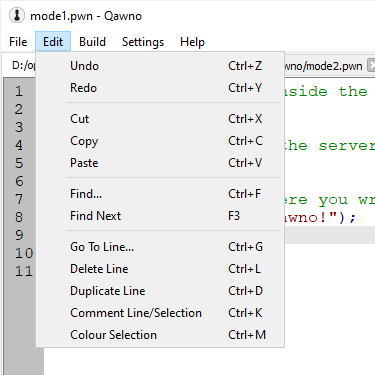
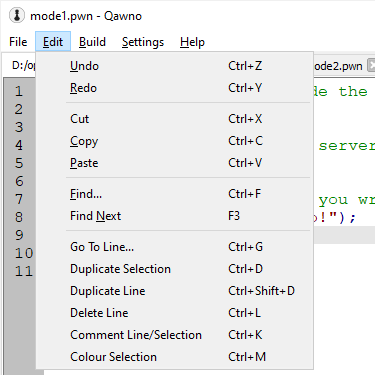
Add Ctrl+Shift+D for duplicating lines not selections.

diff --git a/src/MainWindow.cpp b/src/MainWindow.cpp
@@ -918,6 +918,12 @@ void MainWindow::on_actionDupline_triggered() {
   }
 }
 
+void MainWindow::on_actionDupsel_triggered() {
+  if (auto editor = getCurrentEditor()) {
+    editor->duplicateSelection(false);
+  }
+}
+
 void MainWindow::on_actionComment_triggered() {
   if (auto editor = getCurrentEditor()) {
     // I was trying to do this in a way with cursors etc.  In the end I just decided to do it with

diff --git a/src/EditorWidget.cpp b/src/EditorWidget.cpp
@@ -309,7 +309,7 @@ void EditorWidget::duplicateSelection(bool lines) {
     cursor.movePosition(QTextCursor::NextBlock, QTextCursor::KeepAnchor);
   }
   QString text = cursor.selectedText();
-  cursor.insertText(text);
+  cursor.setPosition(end);
   cursor.insertText(text);
   cursor.setPosition(start, QTextCursor::MoveAnchor);
   cursor.setPosition(end, QTextCursor::KeepAnchor);

diff --git a/src/MainWindow.h b/src/MainWindow.h
@@ -69,6 +69,7 @@ class MainWindow: public QMainWindow {
   void on_actionNextErr_triggered();
   void on_actionDelline_triggered();
   void on_actionDupline_triggered();
+  void on_actionDupsel_triggered();
   void on_actionComment_triggered();
   void on_actionColours_triggered();
 

diff --git a/README.md b/README.md
@@ -15,7 +15,7 @@ Qawno is a simple cross-platform Pawn editor with syntax highlighting, script co
 * **Pawn Compiler** - Compile your code and view the output directly in a panel at the bottom of the program.
 * **open.mp Launch** - Start a server running your code immediately for fast feedback.
 * **Colour Picker** - Select hex numbers representing colours visually (`Ctrl+M`).
-* **Editing Helpers** - Scroll with `Ctrl+Up`/`Ctrl+Down`.  Duplicate a line with `Ctrl+D`.  Delete a line with `Ctrl+L`.  Comment a line with `Ctrl+K`.  Also block comment a selection with `Ctrl+K`.
+* **Editing Helpers** - Scroll with `Ctrl+Up`/`Ctrl+Down`.  Duplicate lines and sections with `Ctrl+D`/`Ctrl+Shift+D`.  Delete a line with `Ctrl+L`.  Comment a line with `Ctrl+K`.  Also block comment a selection with `Ctrl+K`.
 * **Find And Replace** - Search for some text, and optionally replace the found location with new text.  Alternatively replace all the instances of that text with the new version.
 
  Main View
@@ -56,8 +56,9 @@ Provides visual access to all the editor features and options.
 * *Find...* - Search for some text in the current document.  May optionally replace the found text with new text.
 * *Find Next...* - If an item of text has been found this attempts to move on to the next instance of that text in the current file.
 * *Go To Line...* - Enter a line number and the cursor will move straight to that line (see area ***8***).  Useful for jumping to compiler error locations.
+* *Duplicate Selection* - Will make a copy of the current selection, or the current line if there is no selection.
+* *Duplicate Line* - Will make a copy of the whole line or lines that the cursor is currently on below the current line.
 * *Delete Line* - Will remove the whole line that the cursor is currently on.
-* *Duplicate Line* - Will make a copy of the whole line that the cursor is currently on below the current line.
 * *Comment Line/Selection* - If the cursor is on a normal line with nothing selected, this will comment out the current line by adding `//` to the start.  If a block of text is selected this will instead comment out that block using `/* */`.  Pressing this option again on the same line or block will reverse the action, so performing it on a line or block already commented out will uncomment the line or block.
 * *Colour Selection* - Opens the colour selection dialog (colour picker).  This makes inserting hex colour codes simpler by allowing you to choose them visually, and by pre-defining and saving useful or common ones.  See below for full documentation on this feature.
 
